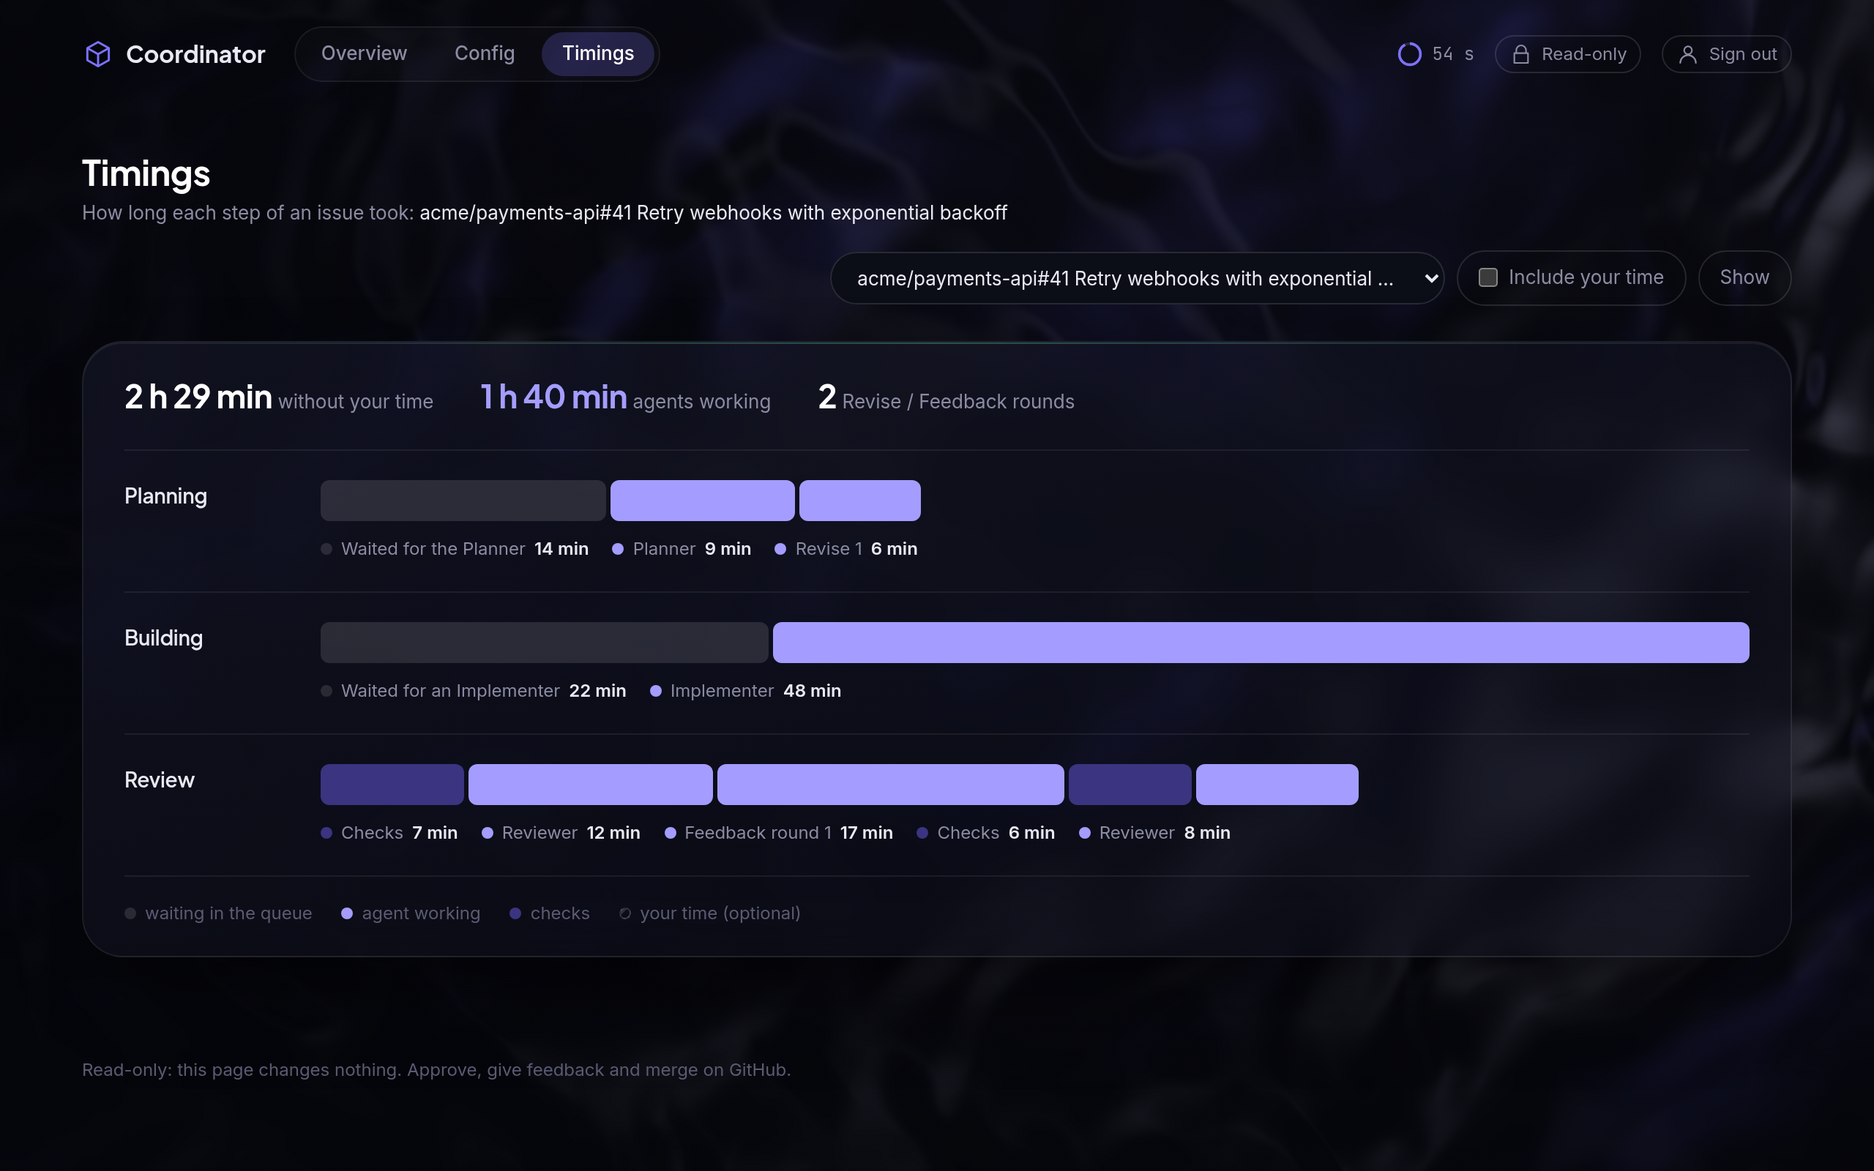
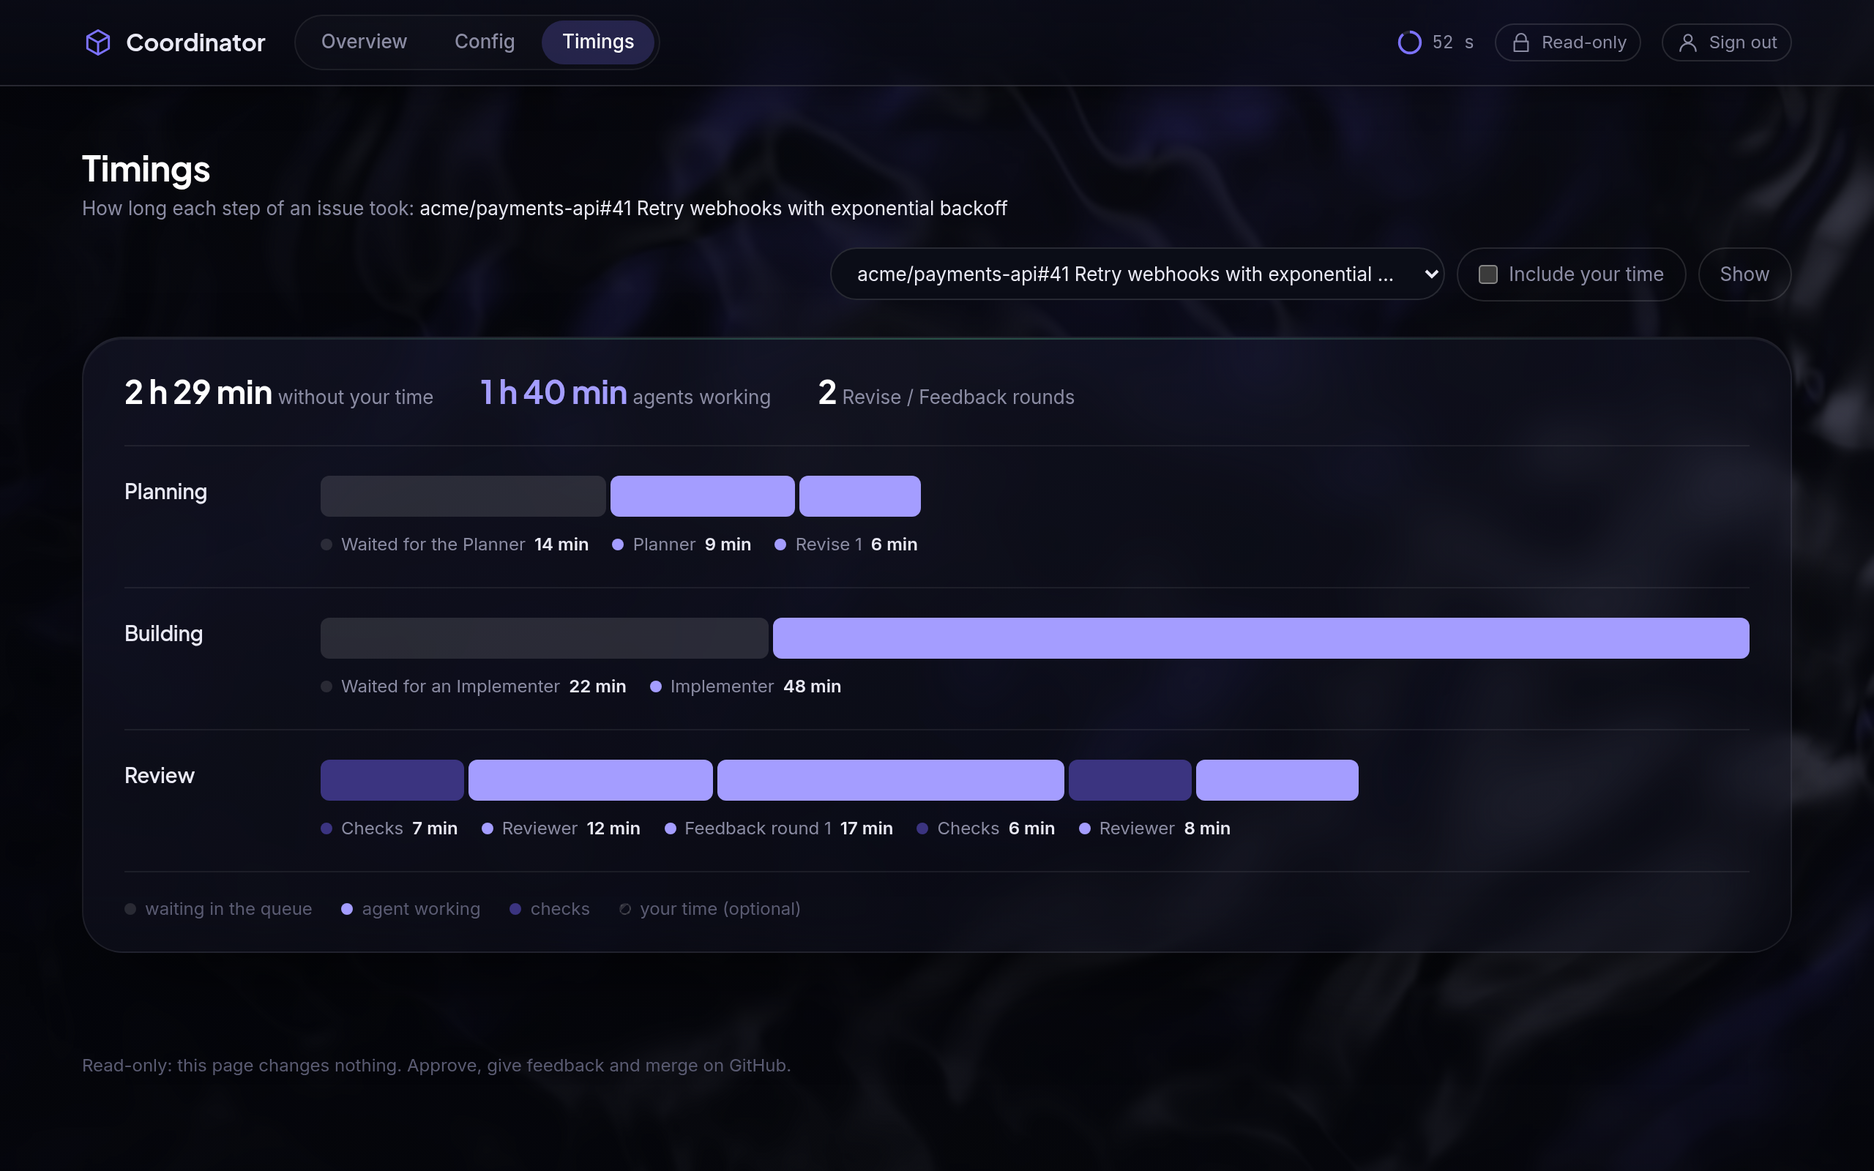
feat: the dashboard header is a fixed frosted bar, one row on a phone (#151, REQ-003-39) (#155)
Claude-Session: https://claude.ai/code/session_0137xE8BqfNdpc59nhapLVgg

diff --git a/src/dashboard/ui.tsx b/src/dashboard/ui.tsx
@@ -114,7 +114,7 @@ const Tab = ({ href, current, children }: { href: string; current: boolean; chil
   <a
     href={href}
     aria-current={current ? "page" : undefined}
-    className={`rounded-full px-3.5 py-[5px] font-medium text-[13px] transition-colors ${
+    className={`rounded-full px-3.5 py-[5px] max-sm:px-2.5 font-medium text-[13px] transition-colors ${
       current ? "bg-acc/22 text-white" : "text-muted"
     }`}
   >
@@ -186,58 +186,70 @@ export function Layout({
       <body className="flex flex-col">
         {/* biome-ignore lint/a11y/noAriaHiddenOnFocusable: a canvas without tabindex is not focusable; the background is decoration */}
         <canvas id="bg" aria-hidden="true" />
-        <header className="wrap flex flex-wrap items-center gap-x-5 gap-y-3 pt-3 pb-1.5 sm:pt-[18px]">
-          <a className="flex items-center gap-2 font-bold font-display text-[16px] text-fg leading-none" href="/">
-            <Icon name="logo" className="size-[22px] text-acc" />
-            <span>Coordinator</span>
-          </a>
-          <nav className="flex gap-1 rounded-full border border-line bg-white/2 p-[3px]" aria-label="Pages">
-            <Tab href="/" current={page === "overview"}>
-              Overview
-            </Tab>
-            <Tab href="/config" current={page === "config"}>
-              Config
-            </Tab>
-            <Tab href="/timings" current={page === "timings"}>
-              Timings
-            </Tab>
-          </nav>
-          <div className="flex w-full items-center justify-between gap-3.5 text-[12px] text-muted sm:ml-auto sm:w-auto sm:justify-start">
-            {editing ? (
-              <span className="inline-flex items-center gap-1.5 rounded-full border border-line-2 px-[9px] py-[3px]">
-                <Icon name="pause" />
-                No refresh while you edit
-              </span>
-            ) : (
-              <>
+        {/* REQ-003-39: a frosted bar pinned to the top; one row on a phone, its content in the page column. */}
+        <header className="topbar">
+          <div className="wrap flex h-[55px] items-center gap-2 sm:h-[58px] sm:gap-5">
+            <a
+              className="flex shrink-0 items-center gap-2 font-bold font-display text-[16px] text-fg leading-none"
+              href="/"
+              aria-label="Coordinator"
+            >
+              <Icon name="logo" className="size-[22px] text-acc" />
+              <span className="max-sm:hidden">Coordinator</span>
+            </a>
+            <nav className="flex shrink-0 gap-1 rounded-full border border-line bg-white/2 p-[3px]" aria-label="Pages">
+              <Tab href="/" current={page === "overview"}>
+                Overview
+              </Tab>
+              <Tab href="/config" current={page === "config"}>
+                Config
+              </Tab>
+              <Tab href="/timings" current={page === "timings"}>
+                Timings
+              </Tab>
+            </nav>
+            <div className="ml-auto flex items-center gap-2 text-[12px] text-muted sm:gap-3.5">
+              {editing ? (
                 <span
-                  className="inline-flex items-center gap-1.5"
-                  data-reload={v.refreshSec}
-                  title={`${v.lastTick ? `Last tick ${v.lastTick.at}` : "No tick has finished yet"} · refreshes every ${v.refreshSec} s`}
+                  className="inline-flex items-center gap-1.5 rounded-full border border-line-2 px-[9px] py-[3px]"
+                  title="No refresh while you edit"
                 >
-                  <Ring />
-                  <span className="min-w-[4ch] font-mono" data-countdown="">
-                    every {v.refreshSec} s
+                  <Icon name="pause" />
+                  <span className="max-sm:hidden">No refresh while you edit</span>
+                </span>
+              ) : (
+                <>
+                  <span
+                    className="inline-flex items-center gap-1.5"
+                    data-reload={v.refreshSec}
+                    title={`${v.lastTick ? `Last tick ${v.lastTick.at}` : "No tick has finished yet"} · refreshes every ${v.refreshSec} s`}
+                  >
+                    <Ring />
+                    <span className="min-w-[4ch] font-mono max-[379px]:hidden" data-countdown="">
+                      every {v.refreshSec} s
+                    </span>
                   </span>
-                </span>
-                <span className="inline-flex items-center gap-1.5 rounded-full border border-line-2 px-[9px] py-[3px]">
-                  <Icon name="lock" />
-                  Read-only
-                </span>
-              </>
-            )}
-            {/* REQ-003-31: a plain form, so it works without JavaScript; the server answers with a signed-out page. */}
-            {v.settings.access?.githubLogin === "on" && (
-              <form method="post" action="/auth/logout">
-                <button
-                  type="submit"
-                  className="inline-flex cursor-pointer items-center gap-1.5 rounded-full border border-line-2 px-[9px] py-[3px] text-muted hover:border-acc hover:text-fg"
-                >
-                  <Icon name="user" />
-                  Sign out
-                </button>
-              </form>
-            )}
+                  <span className="inline-flex items-center gap-1.5 rounded-full border border-line-2 px-[9px] py-[3px] max-sm:hidden">
+                    <Icon name="lock" />
+                    Read-only
+                  </span>
+                </>
+              )}
+              {/* REQ-003-31: a plain form, so it works without JavaScript; the server answers with a signed-out page. */}
+              {v.settings.access?.githubLogin === "on" && (
+                <form method="post" action="/auth/logout">
+                  <button
+                    type="submit"
+                    aria-label="Sign out"
+                    title="Sign out"
+                    className="inline-flex cursor-pointer items-center gap-1.5 rounded-full border border-line-2 px-[9px] py-[3px] text-muted hover:border-acc hover:text-fg max-sm:py-[5px]"
+                  >
+                    <Icon name="user" />
+                    <span className="max-sm:hidden">Sign out</span>
+                  </button>
+                </form>
+              )}
+            </div>
           </div>
         </header>
         <div className="wrap">

diff --git a/test/dashboard-html.test.ts b/test/dashboard-html.test.ts
@@ -4,7 +4,10 @@ import type { RepoSnapshot, TickSnapshot } from "../src/coordinator.ts";
 import { asset as served } from "../src/dashboard/assets.ts";
 import { renderConfig } from "../src/dashboard/config-html.tsx";
 import { renderDashboard } from "../src/dashboard/html.tsx";
+import { timingsView } from "../src/dashboard/timings.ts";
+import { renderTimings } from "../src/dashboard/timings-html.tsx";
 import { dashboardView } from "../src/dashboard/view.ts";
+import { MOCK_TIMING_SOURCE } from "./fixtures/dashboard-mock.ts";
 
 const config = parseConfig({
   owner: { login: "octo", id: 42 },
@@ -105,6 +108,11 @@ const snap: TickSnapshot = {
 
 const overview = (opts?: { repo?: string }) => renderDashboard(dashboardView(snap, config, NOW, opts));
 const configPage = () => renderConfig(dashboardView(snap, config, NOW));
+const timingsPage = () =>
+  renderTimings(
+    dashboardView(snap, config, NOW),
+    timingsView({ source: MOCK_TIMING_SOURCE, pick: null, includeOwner: false, now: NOW }),
+  );
 /** A file as the server serves it (the stylesheet is built from its Tailwind source, REQ-003-19). */
 const asset = (name: string) => new TextDecoder().decode(served(name)?.body);
 
@@ -974,12 +982,63 @@ describe("dashboard html", () => {
       const form = /<form [^>]*>[\s\S]*?<\/form>/.exec(html)?.[0] ?? "";
       expect(form).toContain('action="/auth/logout"');
       expect(form).toContain('method="post"');
-      expect(form).toMatch(/<button type="submit"[^>]*>[\s\S]*Sign out<\/button>/);
+      // REQ-003-39: the label is hidden on a phone, so the button keeps "Sign out" as its accessible name.
+      expect(form).toMatch(/<button type="submit"[^>]*>[\s\S]*Sign out(<\/span>)?<\/button>/);
       expect(html).not.toContain("/secret");
     }
     expect(renderConfig(dashboardView(snap, signedIn, NOW))).toContain("GitHub sign-in, Owner only");
     expect(renderConfig(dashboardView(snap, signedIn, NOW))).toContain("Only the sign-in calls GitHub");
     for (const html of [overview(), configPage()]) expect(html).not.toContain("/auth/logout");
+  });
+
+  describe("REQ-003-39 fixed frosted header", () => {
+    const signedIn = parseConfig({
+      ...config,
+      dashboard: { githubLogin: { clientId: "Ov23li", clientSecretPath: "/secret/github-client-secret" } },
+    });
+    const header = (html: string) => /<header [^>]*>[\s\S]*?<\/header>/.exec(html)?.[0] ?? "";
+
+    test("every page's header is the sticky frosted bar, its content in the page column", () => {
+      for (const html of [overview(), configPage(), timingsPage()]) {
+        const h = header(html);
+        expect(h).toMatch(/^<header class="topbar"/);
+        expect(h).toMatch(/^<header [^>]*>\s*<div class="wrap /);
+      }
+    });
+
+    test("on a phone one row: the wordmark and Read-only are hidden, below 380 px the countdown keeps only its ring", () => {
+      const h = header(overview());
+      expect(h).toMatch(
+        /<a [^>]*aria-label="Coordinator"[^>]*>[\s\S]*?<span class="max-sm:hidden">Coordinator<\/span>/,
+      );
+      expect(h).toMatch(/<span class="[^"]*max-sm:hidden[^"]*">[\s\S]*?Read-only<\/span>/);
+      expect(h).toMatch(/<span class="[^"]*max-\[379px\]:hidden[^"]*" data-countdown="">/);
+      expect(h).not.toContain("flex-wrap");
+    });
+
+    test("Sign out is an icon button on a phone and keeps its accessible name", () => {
+      for (const html of [
+        renderDashboard(dashboardView(snap, signedIn, NOW)),
+        renderConfig(dashboardView(snap, signedIn, NOW)),
+      ]) {
+        const button = /<button type="submit"[^>]*>[\s\S]*?<\/button>/.exec(header(html))?.[0] ?? "";
+        expect(button).toContain('aria-label="Sign out"');
+        expect(button).toMatch(/<span class="max-sm:hidden">Sign out<\/span>/);
+      }
+    });
+
+    test("the stylesheet pins the bar above the glass, frosts it, and offsets anchors below it", () => {
+      const css = asset("dashboard.css");
+      const bar = css.match(/\.topbar \{([^}]*)\}/)?.[1] ?? "";
+      expect(bar).toContain("position: sticky");
+      expect(bar).toContain("top: 0");
+      expect(bar).toContain("z-index: 40");
+      expect(bar).toMatch(/-webkit-backdrop-filter: blur\(/);
+      expect(bar).toMatch(/\sbackdrop-filter: blur\(/);
+      expect(bar).toContain("border-bottom: 1px solid");
+      expect(bar).toContain("padding-top: env(safe-area-inset-top)");
+      expect(css).toMatch(/\[id\] \{\s*scroll-margin-top: calc\(/);
+    });
   });
 
   test("REQ-003-06 a countdown to the next refresh, and a meta refresh for browsers without JavaScript", () => {

diff --git a/src/dashboard/styles.css b/src/dashboard/styles.css
@@ -9,7 +9,7 @@
  * neutral. Amber and red are softened for the dark background (#102), and a status colours its dot
  * or icon while its text stays neutral. Divided rows instead of boxes; the only glass panel is
  * "Ready to merge"; a full-width frosted band holds the Pipeline and the footer, down to the bottom
- * of the page (#100). Recent, Now and Next sit above it, as one timeline in Activity (REQ-003-20). Follows the v3 mockup of #41 (#87). Fonts are served from this
+ * of the page (#100), and the header is a frosted bar pinned to the top (REQ-003-39). Recent, Now and Next sit above it, as one timeline in Activity (REQ-003-20). Follows the v3 mockup of #41 (#87). Fonts are served from this
  * origin (REQ-003-09). The script replaces the page's scrollbar with a comet (REQ-003-27).
  */
 @import "tailwindcss" source(none);
@@ -206,6 +206,11 @@
   code {
     font-size: 0.86em;
   }
+
+  /* REQ-003-39: a jump to an anchor (e.g. /#pipeline) puts its heading below the fixed header. */
+  [id] {
+    scroll-margin-top: calc(72px + env(safe-area-inset-top));
+  }
 }
 
 @layer components {
@@ -237,6 +242,23 @@
   }
   [data-failed] .ring-fg {
     stroke: var(--color-bad);
+  }
+
+  /*
+   * REQ-003-39: the page header, a full-width frosted bar pinned to the top, in the glass of .panel
+   * and .band. Its z-index lifts it above their own stacking contexts; the comet (50) stays on top.
+   * Under a notch it grows by the safe area.
+   */
+  .topbar {
+    position: sticky;
+    top: 0;
+    z-index: 40;
+    padding-top: env(safe-area-inset-top);
+    background: linear-gradient(180deg, rgb(12 13 24 / 0.72), rgb(8 9 17 / 0.6));
+    -webkit-backdrop-filter: blur(18px) saturate(140%);
+    backdrop-filter: blur(18px) saturate(140%);
+    border-bottom: 1px solid var(--color-line-2);
+    box-shadow: 0 12px 32px -20px rgb(0 0 0 / 0.85);
   }
 
   /* The only glass panel; its green top edge widens on hover. */

diff --git a/docs/specs/003-dashboard/spec.md b/docs/specs/003-dashboard/spec.md
@@ -362,6 +362,14 @@ The Owner wants to see at a glance, also on a phone, what the Coordinator is doi
 - **And** a window that was never reported, or whose reset time has passed, shows "–"
 - **And** with no report and no pause at all, the section says "Shown once a session has reported its usage"
 
+### REQ-003-39 Fixed frosted header
+
+- **Given** any dashboard page (Overview, Config, Timings), on a desktop or a phone
+- **When** the Owner scrolls down
+- **Then** the header stays at the top of the viewport as a full-width frosted bar: the page shows through it blurred and dimmed, it has a thin bottom edge, and its text stays readable over any content; the alerts under it scroll with the page
+- **And** on a phone it is a single row: logo icon, tabs, countdown ring, and Sign out as an icon button that keeps "Sign out" as its accessible name. The wordmark and the Read-only pill are hidden there (the footer already says read-only), and below 380 px the countdown keeps only its ring. There is no horizontal scroll at 360 and 390 px
+- **And** jumping to an anchor (e.g. `/#pipeline` from the repository filter) puts the heading below the bar, not under it
+
 ## Out of scope
 
 - Write actions besides the settings of REQ-003-36 (approve, retry, merge). Approval stays on GitHub, where the Owner's identity is checked.
@@ -429,4 +437,5 @@ The Owner wants to see at a glance, also on a phone, what the Coordinator is doi
 | REQ-003-35 | `dashboard html > REQ-003-35 …` (4 tests: 11 items show 5 and one "Show 6 more", counts stay totals, the 5th fades; a split group keeps one heading and a later group brings its own; 6 or fewer show all with no expander; the fade rule in the stylesheet; each seen failing first); `dashboard refresh > REQ-003-28 / REQ-003-35 an opened "Show N more" in Your move stays open`; desktop and phone screenshots with 11 items on the PR (#139)                                                                                                                                                                                                                                                                                                                                                                                                                                                                                                                                                                                                                                                                                                                                        | pass                                                                                                               |
 | REQ-003-37 | `dashboard view > REQ-003-37 …` (2 tests: percent, reset line and age; marked from 90 %); `dashboard html > REQ-003-37 …` (3 tests: heading under Capacity in its style; capsule, reset line and tooltip, numbers in fg or accent and no gold; bars hidden on a phone, wrapping row); `reconcile loop > REQ-001-67 / REQ-003-37 …` (snapshot); in Chrome: no horizontal scroll at 360, 390 and 1280 px, beside the heading at 390 px and under it at 360 px; screenshots on the PR                                                                                                                                                                                                                                                                                                                                                                                                                                                                                                                                                                                                                                                                                                        | pass                                                                                                               |
 | REQ-003-38 | `dashboard view > REQ-003-38 …` (3 tests: names, pause and – for a stale or missing window; a pause on another day; nothing to show); `dashboard html > REQ-003-38 …` (2 tests: names, paused, –; the empty note); screenshot with two Accounts on the PR                                                                                                                                                                                                                                                                                                                                                                                                                                                                                                                                                                                                                                                                                                                                                                                                                                                                                                                                 | pass                                                                                                               |
+| REQ-003-39 | `dashboard html > REQ-003-39 fixed frosted header > …` (4 tests: the sticky bar on all three pages with its content in the page column; one row on a phone with wordmark, Read-only and below 380 px the countdown text hidden; Sign out icon-only with its accessible name; the stylesheet's sticky, z-index, frost incl. `-webkit-`, bottom edge, safe area and anchor offset; each seen failing first), `… REQ-003-31 …` (Sign out's label now in a span); in headless Chrome on all three pages at 1280, 390 and 360 px: scrolled down, the header's top is 0, it is 59/56 px tall and nothing scrolls horizontally; screenshots on the PR. Not verified: a real iPhone (notch, Safari's backdrop-filter)                                                                                                                                                                                                                                                                                                                                                                                                                                                                             | pass                                                                                                               |
 | Acceptance | #72: desktop, phone and Config screenshots from fixture data before and after the React migration look the same; manual: open it on a phone over Tailscale and on desktop, compare with the mockup in #41, screenshots on the PR; without a `dashboard` block, an SSH tunnel to `127.0.0.1:8080` loads the page                                                                                                                                                                                                                                                                                                                                                                                                                                                                                                                                                                                                                                                                                                                                                                                                                                                                           | #87: desktop and phone screenshots from fixture data match the mockup; on a real phone and the hover effects: open |
